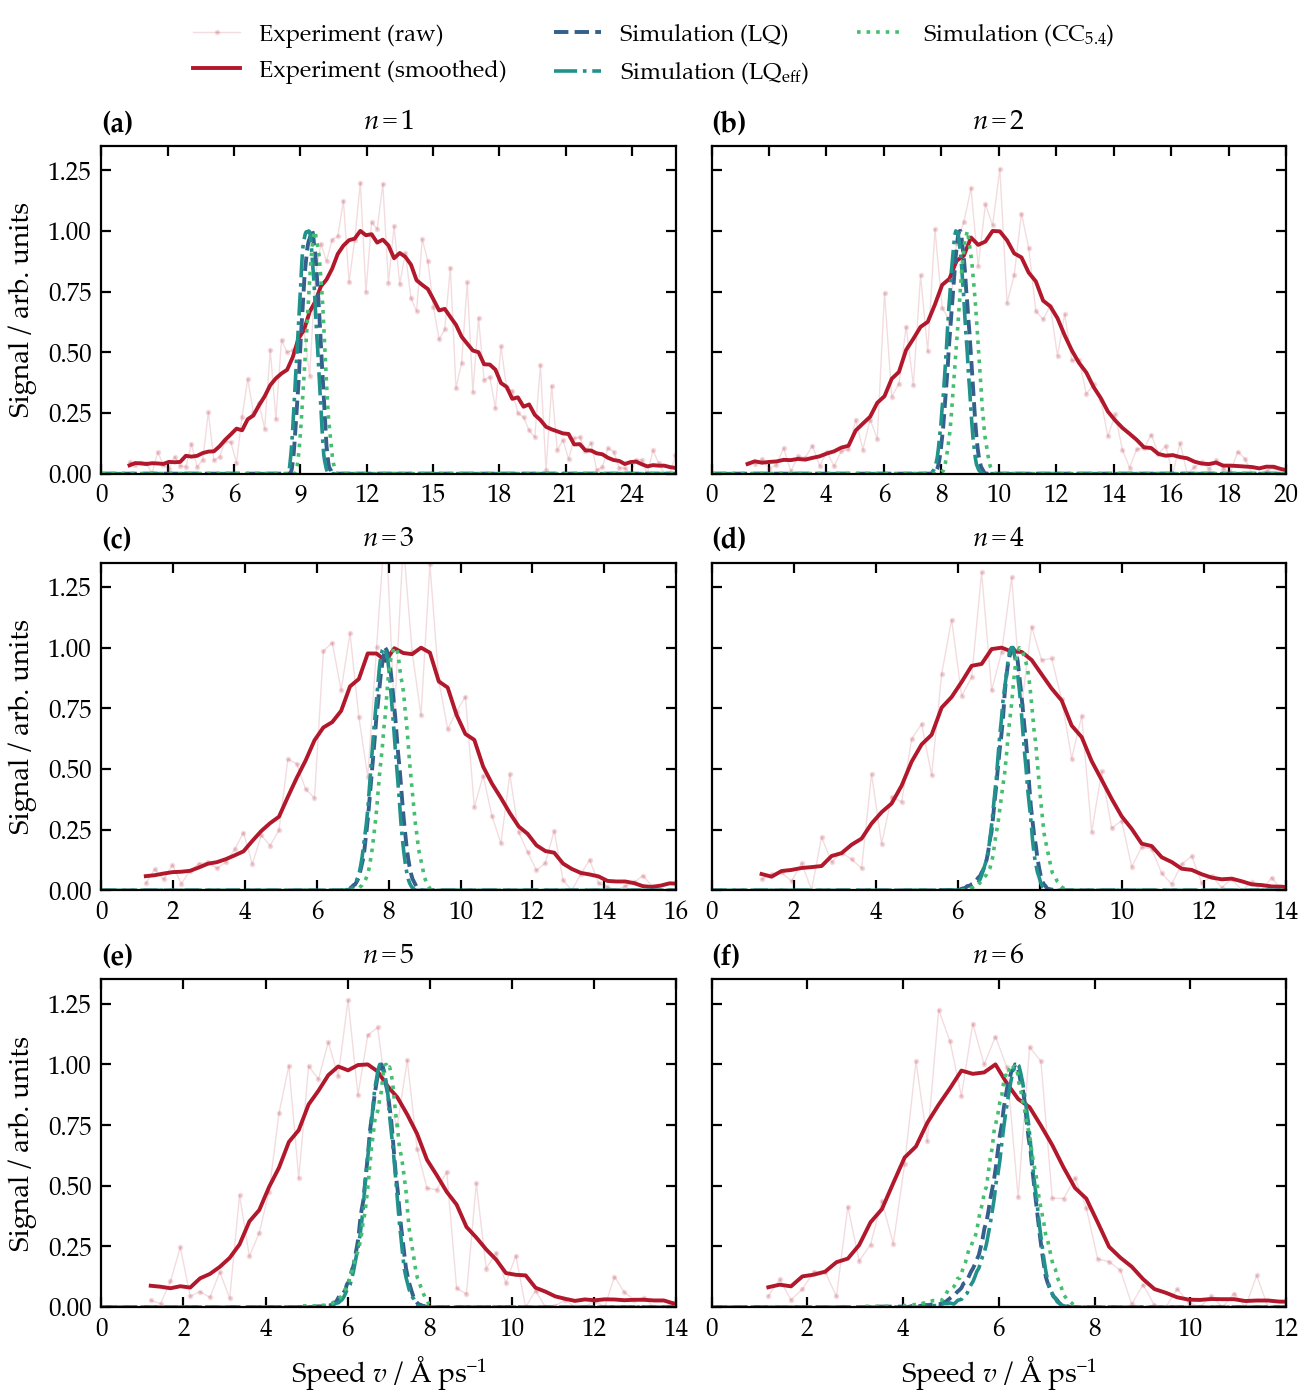
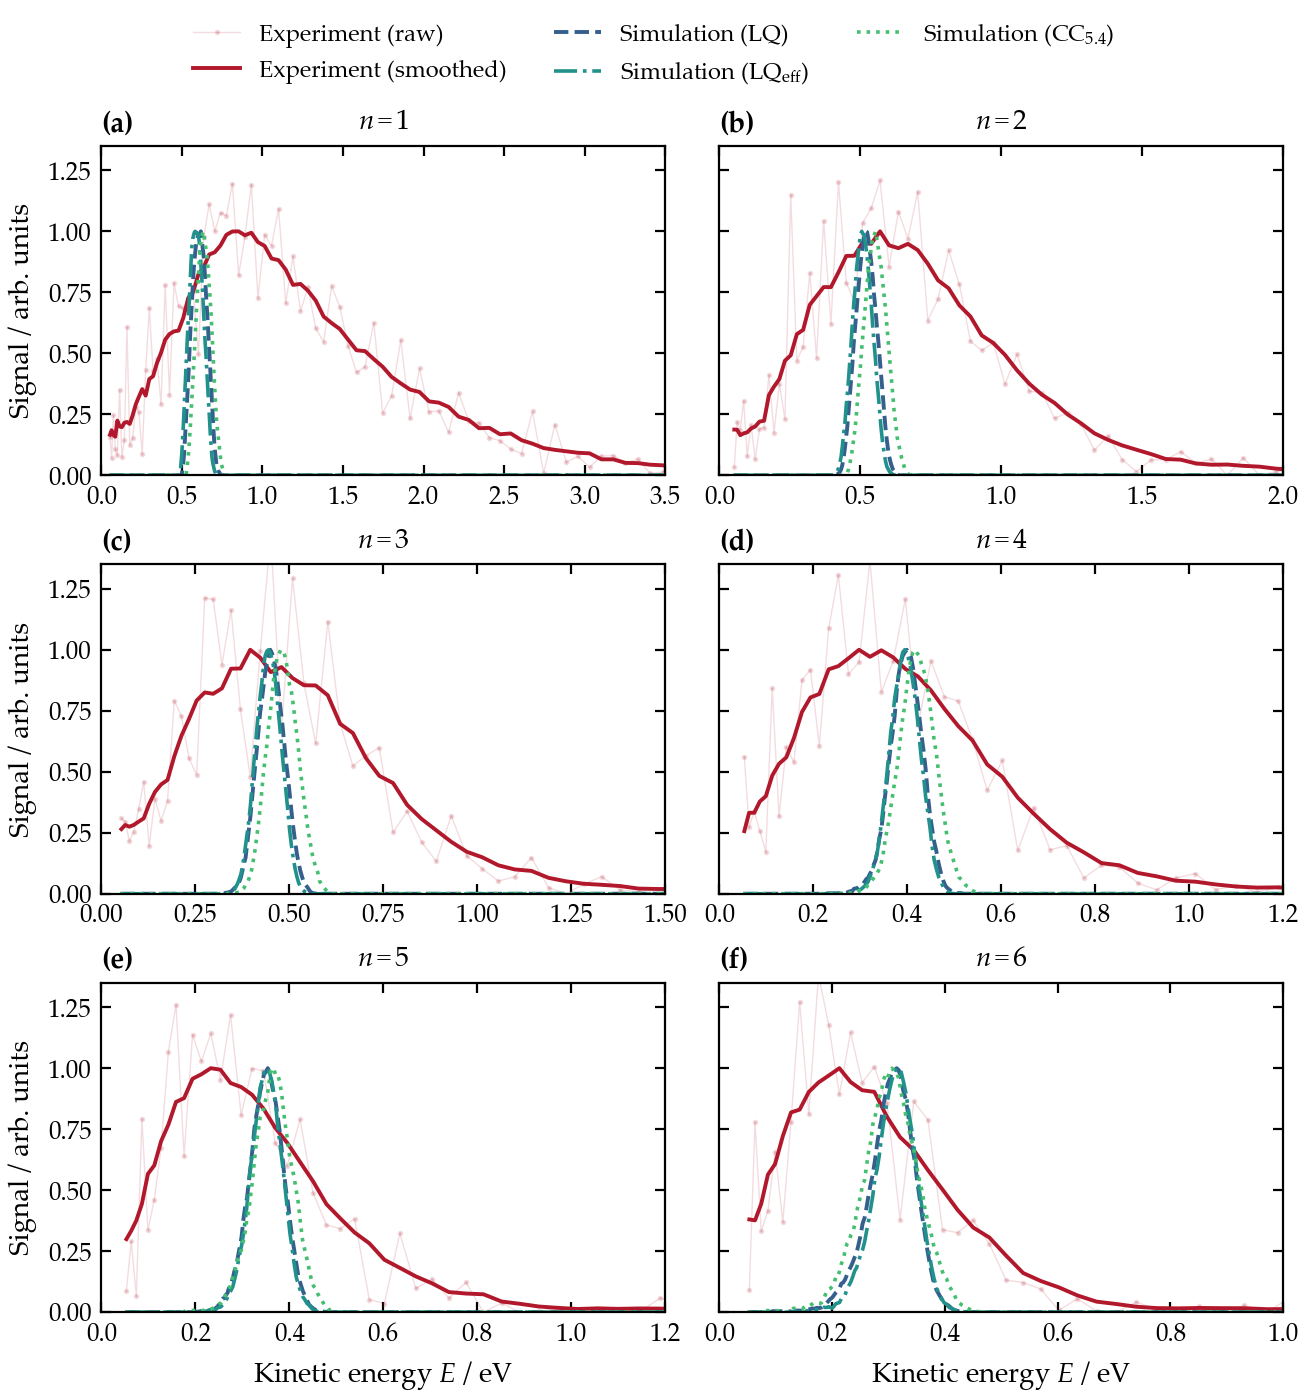
KED shape figures on a kinetic-energy axis (P(E) via Jacobian)
b2_3 and laws_3 now draw the 3-D distributions as P(E) = P(v)/(m v) of
the committed P(v) recipe (ked_traces), peak-normalised, cut below
0.05 eV (Abel-centre residual amplified by 1/v), with E-bar markers.
b2_4 (2-D projection) stays on the speed axis; the energy axis refuses
2-D data (centre fill). Tests lock the transform against the exporter's
signal_3d_PE column.

diff --git a/i2_helium_md/scripts/post_processing/tier2_b2_thesis_figure.py b/i2_helium_md/scripts/post_processing/tier2_b2_thesis_figure.py
@@ -20,10 +20,13 @@ smoothing window) lives in the captions, not on the figures:
   (n 2-8, geometric) and deepKE (n 10-17, arithmetic) band means as
   segments. ``lower_panel = "z"`` restores the profiled-residual panel.
 * **B2-3 KED shapes** -- the detection-summary curve panels for n = 1-6
-  (3 x 2), 3-D P(v), experiment raw + movmean vs simulation,
-  peak-normalized, v(<E>) markers; speed axis in Å/ps, per-n range.
+  (3 x 2), experiment raw + movmean vs simulation, peak-normalized, drawn
+  as the 3-D P(E) on a kinetic-energy axis (the committed P(v) recipe
+  through the Jacobian P(E) = P(v) / (m v), ``ked_traces``), <E> markers,
+  per-n range. ``x_axis = "v"`` restores P(v) in Å/ps with v(<E>) markers.
 * **B2-4** -- B2-3 on the 2-D detector projection (discussion figure,
-  ``THESIS_DISCUSSION.md`` §13; 2-D is a diagnostic, not a score).
+  ``THESIS_DISCUSSION.md`` §13; 2-D is a diagnostic, not a score); stays
+  on the speed axis (the 2-D P(E) is centre-fill dominated at low E).
 
 Structure: a **data layer** (``*_data`` functions; numbers only, every
 recipe imported -- ``tier2_confirmation`` scorers, the ``postprocess``
@@ -170,11 +173,13 @@ FIG_B2_2_SPLIT: dict = {
 }
 
 FIG_B2_3: dict = {
-    # The plot_detection_summary ihe_ked curve section for n = 1..6 (3 x 2)
-    # with the speed axis in Å/ps; n = 0 (bare I+) is a different
-    # population and is left out.
+    # The plot_detection_summary ihe_ked curve section for n = 1..6 (3 x 2),
+    # drawn as P(E) on a kinetic-energy axis (``x_axis`` "E", the Jacobian of
+    # the committed P(v) recipe, ``ked_traces``) or as P(v) in Å/ps ("v");
+    # n = 0 (bare I+) is a different population and is left out.
     "stem": "b2_3_ked_shapes",
     "representation": "3d",              # "3d" (P(v)) | "2d" (detector projection)
+    "x_axis": "E",                       # "E" (P(E), eV; 3-D only) | "v" (P(v), Å/ps)
     "n_values": (1, 2, 3, 4, 5, 6),      # n 5-7: extended exports, not verified
     "ncols": 2,
     "figsize": (TEXTWIDTH_IN, 7.0),
@@ -183,10 +188,16 @@ FIG_B2_3: dict = {
     "v_xlim_Aps": (0.0, 31.0),           # IHE_KED_PLOT_V_MAX_MPS / 100 (fallback)
     "v_xlim_by_n": {1: (0.0, 26.0), 2: (0.0, 20.0), 3: (0.0, 16.0),
                     4: (0.0, 14.0), 5: (0.0, 14.0), 6: (0.0, 12.0)},
+    "e_xlim_eV": (0.0, 4.0),             # fallback
+    "e_xlim_by_n": {1: (0.0, 3.5), 2: (0.0, 2.0), 3: (0.0, 1.5),
+                    4: (0.0, 1.2), 5: (0.0, 1.2), 6: (0.0, 1.0)},
+    # above the 3-D columns' own 0.01 eV cut (COLUMNS.md): P(E) = P(v)/(m v)
+    # amplifies the Abel-centre residual below ~0.05 eV (state in the caption)
+    "e_min_eV": 0.05,
     "ylim": (0.0, 1.35),
     "show_exp_raw": True,
     "exp_raw_alpha": 0.15,               # raw trace stays in the background of the smoothed one
-    "show_v_of_mean_E": True,
+    "show_mean_E_marker": True,          # at E-bar ("E") or v(E-bar) ("v")
     "show_counts": True,                 # per-panel N text
     "annot_ke_n": (),                    # panels that print <E> sim / exp
     "titles": "$n = {n}$",
@@ -195,16 +206,19 @@ FIG_B2_3: dict = {
     "legend_ncols": 3,                   # figure legend only
     "legend_loc": "best",
     "outer_labels_only": True,
-    "xlabel": r"Speed $v$ / Å ps$^{-1}$",
+    "xlabel_E": r"Kinetic energy $E$ / eV",
+    "xlabel_v": r"Speed $v$ / Å ps$^{-1}$",
     "ylabel": "Signal / arb. units",
 }
 
 # B2-4: B2-3 on the 2-D detector projection (sim: sqrt(vx^2 + vy^2));
-# starts as a copy of FIG_B2_3, override keys here.
+# starts as a copy of FIG_B2_3, override keys here. Stays on the speed axis:
+# the 2-D P(E) carries the VMI centre-fill rise at low E (COLUMNS.md).
 FIG_B2_4: dict = {
     **copy.deepcopy(FIG_B2_3),
     "stem": "b2_4_ked_shapes_2d",
     "representation": "2d",
+    "x_axis": "v",
 }
 
 # =============================================================================
@@ -221,6 +235,7 @@ from i2_helium_md.physics.shell_schedule import complex_mass_amu  # noqa: E402
 from i2_helium_md.postprocess import (  # noqa: E402
     compute_final_velocity_histogram,
     detected_ensemble_view,
+    energy_eV_of_speed_mps,
     fragment_mean_kinetic_energy,
     load_he_abundance_reference,
     load_ihe_ked_curve,
@@ -400,6 +415,8 @@ def ke_data(read, ked_ref) -> KEData:
 class PvData:
     """One n-panel of B2-3; speeds in Å/ps, traces peak-normalized."""
     n: int
+    representation: str
+    mass_amu: float
     v_exp_Aps: np.ndarray
     exp_raw: np.ndarray
     exp_smooth: np.ndarray
@@ -438,6 +455,8 @@ def pv_data(view, ked_dir: Path, ked_ref, n: int, representation: str) -> PvData
         sim_mean = None
     return PvData(
         n=n,
+        representation=representation,
+        mass_amu=mass_amu,
         v_exp_Aps=np.asarray(curve.v_mps, dtype=float) / MPS_PER_APS,
         exp_raw=raw,
         exp_smooth=_nan_aware_moving_mean(raw, IHE_KED_EXP_SMOOTHING_WINDOW),
@@ -450,6 +469,61 @@ def pv_data(view, ked_dir: Path, ked_ref, n: int, representation: str) -> PvData
         mean_E_exp_eV=mean_exp,
         mean_E_sim_eV=None if sim_mean is None else float(sim_mean.mean_KE_eV),
     )
+
+
+def _energy_density(v_Aps, signal, mass_amu: float, e_min_eV: float):
+    """A P(v) trace on a speed grid [Å/ps] as (E [eV], P(E)) on the mapped grid.
+
+    P(E) = P(v) dv/dE = P(v) / (m v), the Jacobian of E = m v^2 / 2 -- the
+    convention of the ihe_ked ``signal_3d_PE`` column (COLUMNS.md). The
+    constant 1/m is dropped (the traces are peak-normalised by the caller);
+    E < ``e_min_eV`` is NaN, where 1/v amplifies the near-zero bins.
+    """
+    v = np.asarray(v_Aps, dtype=float)
+    energy = energy_eV_of_speed_mps(v * MPS_PER_APS, mass_amu)
+    with np.errstate(divide="ignore", invalid="ignore"):
+        density = np.asarray(signal, dtype=float) / v
+    return energy, np.where(energy >= e_min_eV, density, np.nan)
+
+
+@dataclass(frozen=True)
+class KedTraces:
+    """What one KED-shape panel draws, on the panel's x axis (eV or Å/ps)."""
+    x_exp: np.ndarray
+    exp_raw: np.ndarray
+    exp_smooth: np.ndarray
+    x_sim: np.ndarray | None
+    sim: np.ndarray | None
+    mark_exp: float               # E-bar ("E") or v(E-bar) ("v"), experiment
+    mark_sim: float | None
+
+
+def ked_traces(d: PvData, x_axis: str, e_min_eV: float) -> KedTraces:
+    """``d`` on the speed axis (``x_axis`` "v", unchanged) or as P(E) ("E").
+
+    "E" maps the committed P(v) traces through :func:`_energy_density` --
+    smoothed in v as the recipe does, then transformed -- and re-normalises
+    each to a unit maximum (the raw experiment shares the smoothed one's
+    factor). Only the 3-D representation is allowed: the 2-D P(E) rises at
+    low E from the VMI centre fill (fast ions projected inward).
+    """
+    if x_axis == "v":
+        return KedTraces(d.v_exp_Aps, d.exp_raw, d.exp_smooth, d.v_sim_Aps, d.sim_trace,
+                         d.v_mean_E_exp_Aps, d.v_mean_E_sim_Aps)
+    if x_axis != "E":
+        raise ValueError(f"x_axis must be 'E' or 'v', got {x_axis!r}")
+    if d.representation != "3d":
+        raise ValueError("the energy axis needs the 3-D representation "
+                         f"(2-D P(E) is centre-fill dominated at low E), got {d.representation!r}")
+    x_exp, raw = _energy_density(d.v_exp_Aps, d.exp_raw, d.mass_amu, e_min_eV)
+    _, smooth = _energy_density(d.v_exp_Aps, d.exp_smooth, d.mass_amu, e_min_eV)
+    scale = np.nanmax(smooth)
+    x_sim = sim = None
+    if d.sim_trace is not None:
+        x_sim, sim = _energy_density(d.v_sim_Aps, d.sim_trace, d.mass_amu, e_min_eV)
+        sim = sim / np.nanmax(sim)
+    return KedTraces(x_exp, raw / scale, smooth / scale, x_sim, sim,
+                     d.mean_E_exp_eV, d.mean_E_sim_eV)
 
 
 # =============================================================================
@@ -639,26 +713,30 @@ def draw_ke_residual(ax, d: KEData, st: dict) -> None:
 
 
 def draw_pv(ax, d: PvData, st: dict, *, show_legend: bool = False) -> None:
-    """One KED-shape panel -- the ``_section_ihe_ked_curves`` panel in Å/ps."""
+    """One KED-shape panel -- the ``_section_ihe_ked_curves`` panel as P(E)
+    in eV (``st["x_axis"]`` "E") or P(v) in Å/ps ("v")."""
+    energy = st["x_axis"] == "E"
+    t = ked_traces(d, st["x_axis"], st["e_min_eV"])
     if st["show_exp_raw"]:
-        ax.plot(d.v_exp_Aps, d.exp_raw, ".-", markersize=2.0, linewidth=0.5,
+        ax.plot(t.x_exp, t.exp_raw, ".-", markersize=2.0, linewidth=0.5,
                 alpha=st["exp_raw_alpha"],
                 label="Experiment (raw)", **st["exp"])
-    ax.plot(d.v_exp_Aps, d.exp_smooth, linewidth=1.4, label="Experiment (smoothed)",
+    ax.plot(t.x_exp, t.exp_smooth, linewidth=1.4, label="Experiment (smoothed)",
             **st["exp"])
-    if d.sim_trace is not None:
-        ax.plot(d.v_sim_Aps, d.sim_trace, "--", linewidth=1.4,
+    if t.sim is not None:
+        ax.plot(t.x_sim, t.sim, "--", linewidth=1.4,
                 label=f"Simulation ({st['sim_label']})",
                 **st["sim"])
     else:
         ax.annotate("Simulation: no atoms in gate", (0.97, 0.9), xycoords="axes fraction",
                     ha="right", fontsize=st["annot_fontsize"], color=st["sim"]["color"])
-    if st["show_v_of_mean_E"]:
-        ax.axvline(d.v_mean_E_exp_Aps, linestyle=":", linewidth=1.0,
-                   label=r"Experiment $v(\bar{E})$", **st["exp"])
-        if d.v_mean_E_sim_Aps is not None:
-            ax.axvline(d.v_mean_E_sim_Aps, linestyle=":", linewidth=1.0,
-                       label=r"Simulation $v(\bar{E})$", **st["sim"])
+    if st["show_mean_E_marker"]:
+        mark = r"$\bar{E}$" if energy else r"$v(\bar{E})$"
+        ax.axvline(t.mark_exp, linestyle=":", linewidth=1.0,
+                   label=f"Experiment {mark}", **st["exp"])
+        if t.mark_sim is not None:
+            ax.axvline(t.mark_sim, linestyle=":", linewidth=1.0,
+                       label=f"Simulation {mark}", **st["sim"])
     lines = []
     if st["show_counts"]:
         lines.append(f"$N = {d.num_sim}$")
@@ -667,12 +745,15 @@ def draw_pv(ax, d: PvData, st: dict, *, show_legend: bool = False) -> None:
     if lines:
         ax.text(0.97, 0.95, "\n".join(lines), transform=ax.transAxes, ha="right", va="top",
                 fontsize=st["annot_fontsize"])
-    xlim = st.get("v_xlim_by_n", {}).get(d.n, st["v_xlim_Aps"])
+    if energy:
+        xlim = st.get("e_xlim_by_n", {}).get(d.n, st["e_xlim_eV"])
+    else:
+        xlim = st.get("v_xlim_by_n", {}).get(d.n, st["v_xlim_Aps"])
     ax.set(title=st["titles"].format(n=d.n), xlim=xlim, ylim=st["ylim"],
-           xlabel=st["xlabel"], ylabel=st["ylabel"])
+           xlabel=st["xlabel_E" if energy else "xlabel_v"], ylabel=st["ylabel"])
     if show_legend:
         _legend(ax, st, st["legend_loc"])
-    _finish_axis(ax, st, integer_x=True)
+    _finish_axis(ax, st, integer_x=not energy)
 
 
 # =============================================================================

diff --git a/i2_helium_md/tests/test_tier2_b2_thesis_figure.py b/i2_helium_md/tests/test_tier2_b2_thesis_figure.py
@@ -154,6 +154,54 @@ class TestRecipeParity:
             mod.pv_data(inputs["view"], IHE_KED_DIR, inputs["ked_ref"], 1, "1d")
 
 
+class TestKedEnergyAxis:
+    """``ked_traces``: P(E) = P(v) / (m v) of the committed P(v) recipe."""
+
+    @pytest.mark.parametrize("n", [1, 2, 3, 4])
+    def test_experiment_transform_is_the_committed_pe_column(self, mod, inputs, n):
+        # the exporter's signal_3d_PE is the same Jacobian of signal_3d_Pv: the
+        # transformed raw trace is proportional to it, on the CSV's E grid
+        from i2_helium_md.postprocess import load_ihe_ked_curve
+        d = mod.pv_data(inputs["view"], IHE_KED_DIR, inputs["ked_ref"], n, "3d")
+        t = mod.ked_traces(d, "E", e_min_eV=0.0)
+        curve = load_ihe_ked_curve(IHE_KED_DIR, n)
+        # E grid: CSV mass convention = complex_mass_amu to ~1e-5 (export rounding)
+        np.testing.assert_allclose(t.x_exp, curve.E_eV, rtol=1e-4, atol=1e-4)
+        ok = np.isfinite(t.exp_raw) & np.isfinite(curve.signal_3d_PE) & (curve.signal_3d_PE > 0.05)
+        ratio = t.exp_raw[ok] / curve.signal_3d_PE[ok]
+        assert np.std(ratio) / np.mean(ratio) < 1e-3     # CSV is 5-significant-figure
+
+    def test_traces_are_unit_peak_and_cut_below_e_min(self, mod, inputs):
+        d = mod.pv_data(inputs["view"], IHE_KED_DIR, inputs["ked_ref"], 1, "3d")
+        t = mod.ked_traces(d, "E", e_min_eV=0.05)
+        assert np.nanmax(t.exp_smooth) == pytest.approx(1.0)
+        assert np.nanmax(t.sim) == pytest.approx(1.0)
+        assert np.all(np.isnan(t.sim[t.x_sim < 0.05]))
+        assert np.all(np.isnan(t.exp_raw[t.x_exp < 0.05]))
+        # sim grid is the Å/ps histogram grid mapped through E = m v^2 / 2
+        from i2_helium_md.postprocess import energy_eV_of_speed_mps
+        np.testing.assert_allclose(t.x_sim, energy_eV_of_speed_mps(100.0 * d.v_sim_Aps,
+                                                                   d.mass_amu))
+        # markers sit at E-bar itself, not at v(E-bar)
+        assert (t.mark_exp, t.mark_sim) == (d.mean_E_exp_eV, d.mean_E_sim_eV)
+
+    def test_speed_axis_is_the_unchanged_pv_data(self, mod, inputs):
+        d = mod.pv_data(inputs["view"], IHE_KED_DIR, inputs["ked_ref"], 1, "3d")
+        t = mod.ked_traces(d, "v", e_min_eV=0.01)
+        assert t.x_exp is d.v_exp_Aps and t.sim is d.sim_trace
+        assert t.mark_exp == d.v_mean_E_exp_Aps
+
+    def test_energy_axis_refuses_the_2d_projection(self, mod, inputs):
+        d = mod.pv_data(inputs["view"], IHE_KED_DIR, inputs["ked_ref"], 1, "2d")
+        with pytest.raises(ValueError, match="3-D"):
+            mod.ked_traces(d, "E", e_min_eV=0.01)
+
+    def test_unknown_axis_raises(self, mod, inputs):
+        d = mod.pv_data(inputs["view"], IHE_KED_DIR, inputs["ked_ref"], 1, "3d")
+        with pytest.raises(ValueError, match="x_axis"):
+            mod.ked_traces(d, "p", e_min_eV=0.01)
+
+
 class TestAnchorGuard:
     def _csv(self, tmp_path, values, label="B2_pp_c160", container="c"):
         path = tmp_path / "winners.csv"
@@ -272,17 +320,30 @@ class TestBuilders:
             assert len(fig.axes) == 6
             assert len(fig.legends) == 1
             assert all(ax.get_legend() is None for ax in fig.axes)
-            # per-n speed range; inner column / upper rows carry no axis labels
-            assert fig.axes[0].get_xlim() == mod.FIG_B2_3["v_xlim_by_n"][1]
+            # per-n energy range; inner column / upper rows carry no axis labels
+            assert mod.FIG_B2_3["x_axis"] == "E"
+            assert fig.axes[0].get_xlim() == mod.FIG_B2_3["e_xlim_by_n"][1]
             assert fig.axes[1].get_ylabel() == "" and fig.axes[0].get_xlabel() == ""
-            assert fig.axes[4].get_xlabel() and fig.axes[4].get_ylabel()
+            assert fig.axes[4].get_xlabel() == mod.FIG_B2_3["xlabel_E"]
+            assert fig.axes[4].get_ylabel()
         finally:
             plt.close(fig)
 
-    def test_b2_4_is_b2_3_on_the_2d_projection(self, mod):
+    def test_b2_4_is_b2_3_on_the_2d_projection_in_speed(self, mod):
+        # the 2-D P(E) is centre-fill dominated at low E: B2-4 keeps the speed axis
         diff = {k for k in mod.FIG_B2_3 if mod.FIG_B2_3[k] != mod.FIG_B2_4[k]}
-        assert diff == {"stem", "representation"}
-        assert mod.FIG_B2_4["representation"] == "2d"
+        assert diff == {"stem", "representation", "x_axis"}
+        assert mod.FIG_B2_4["representation"] == "2d" and mod.FIG_B2_4["x_axis"] == "v"
+
+    def test_b2_4_draws_on_the_speed_axis(self, mod, inputs):
+        panels = [mod.pv_data(inputs["view"], IHE_KED_DIR, inputs["ked_ref"], n, "2d")
+                  for n in (1, 2)]
+        fig = mod.build_b2_3(panels, mod.FIG_B2_4)
+        try:
+            assert fig.axes[0].get_xlim() == mod.FIG_B2_4["v_xlim_by_n"][1]
+            assert fig.axes[0].get_xlabel() == mod.FIG_B2_4["xlabel_v"]
+        finally:
+            plt.close(fig)
 
     def test_b2_3_grid_hides_spare_axes_and_figure_legend(self, mod, inputs):
         panels = [mod.pv_data(inputs["view"], IHE_KED_DIR, inputs["ked_ref"], n, "3d")

diff --git a/i2_helium_md/scripts/post_processing/tier2_law_comparison_figure.py b/i2_helium_md/scripts/post_processing/tier2_law_comparison_figure.py
@@ -24,8 +24,9 @@ effective high-tail variant B3):
   (``legend_short``). Laws are offset in n by ``slot x n_offset`` (fixed per
   law, so h405 sits at the same place in both variants; display only, the
   values are at integer n).
-* **L-3 KED shapes** -- the B2-3 panels for n = 1-6 (3-D P(v), peak-
-  normalized), every law's trace over the experiment.
+* **L-3 KED shapes** -- the B2-3 panels for n = 1-6 (3-D P(E) on the
+  kinetic-energy axis, B2-3's ``x_axis``; peak-normalized), every law's
+  trace over the experiment.
 
 Every recipe is the B2 script's data layer (``size_data``, ``ke_data``,
 ``pv_data`` -- the ``tier2_confirmation`` scorers); the draw layer is reused
@@ -133,7 +134,7 @@ FIG_L_3: dict = {
     "representation": "3d",
     "n_values": (1, 2, 3, 4, 5, 6),
     "linewidth": 1.3,
-    "show_v_of_mean_E": False,           # four v(E) marks per panel do not read; caption
+    "show_mean_E_marker": False,         # four E-bar marks per panel do not read; caption
     "show_counts": False,
     "legend_ncols": 3,
 }
@@ -171,6 +172,7 @@ from scripts.post_processing.tier2_b2_thesis_figure import (  # noqa: E402
     draw_ke_ratio,
     draw_pv,
     ke_data,
+    ked_traces,
     merged_style,
     pv_data,
     size_data,
@@ -359,9 +361,9 @@ def build_l_3(laws: list[LawData], panels: dict[str, list[PvData]]) -> plt.Figur
     for k, ax in enumerate(flat[:len(st["n_values"])]):
         draw_pv(ax, panels[first.key][k], _law_style(st, first))
         for law in laws[1:]:
-            d = panels[law.key][k]
-            if d.sim_trace is not None:
-                ax.plot(d.v_sim_Aps, d.sim_trace, law.dash, linewidth=st["linewidth"],
+            t = ked_traces(panels[law.key][k], st["x_axis"], st["e_min_eV"])
+            if t.sim is not None:
+                ax.plot(t.x_sim, t.sim, law.dash, linewidth=st["linewidth"],
                         color=law.color, label=f"Simulation ({law.name})")
         if st["outer_labels_only"]:
             if k % ncols:

diff --git a/i2_helium_md/tests/test_tier2_law_comparison_figure.py b/i2_helium_md/tests/test_tier2_law_comparison_figure.py
@@ -18,6 +18,7 @@ import matplotlib
 
 matplotlib.use("Agg")
 import matplotlib.pyplot as plt  # noqa: E402
+import numpy as np  # noqa: E402
 import pytest  # noqa: E402
 
 from tests.test_tier2_b2_thesis_figure import inputs  # noqa: E402,F401  (shared fixture)
@@ -129,5 +130,10 @@ class TestBuilders:
             labels = _labels(fig)
             for law in laws:
                 assert f"Simulation ({law.name})" in labels
+            # every law on B2-3's kinetic-energy axis (P(E) via ked_traces)
+            ax = fig.axes[0]
+            t = mod.ked_traces(panels["h405"][0], "E", mod.FIG_B2_3["e_min_eV"])
+            assert ax.get_xlim() == mod.FIG_B2_3["e_xlim_by_n"][1]
+            np.testing.assert_array_equal(ax.lines[-1].get_xdata(), t.x_sim)
         finally:
             plt.close(fig)
